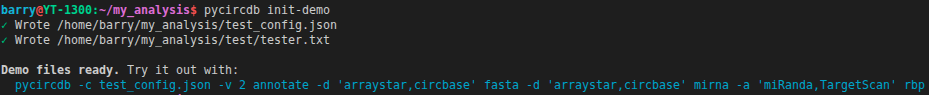
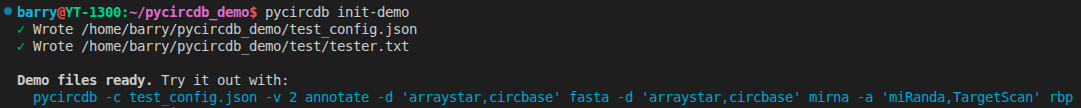
demo regression fix | widen miRNA RBP DL chrom unique()

diff --git a/utils/connect_s3/download_mirna_tables.py b/utils/connect_s3/download_mirna_tables.py
@@ -11,43 +11,38 @@ from utils.md5sum_check import _load_expected_sums, _file_md5sum
 
 console = Console(stderr=True, highlight=False)
 
-def _extract_cscd_chromosomes(lookup_results: Dict[str, Dict[str, pl.DataFrame]]) -> List[str]:
-    """Collect required CSCD chromosome names from lookup hits."""
-    cscd_chrs = set()
+def _extract_required_chromosomes(lookup_results: Dict[str, Dict[str, pl.DataFrame]]) -> List[str]:
+    """Collect required hg38 chromosome names from hits across all lookup tables.
 
-    for _, db_dict in lookup_results.items():
-        cscd_hits = db_dict.get("cscd")
-        if cscd_hits is None or cscd_hits.shape == (0, 0):
-            continue
-        if "hg19" not in cscd_hits.columns or "hg38" not in cscd_hits.columns:
-            continue
+    miRNA hits are matched against the hg38 IDs of every database hit (see
+    broadcast_mirna), so the chromosome tables we download must be derived from
+    all lookup tables, not just CSCD.
+    """
+    chroms = set()
 
-        cscd_hits = cscd_hits.with_columns(
-            pl.col("hg19")
-            .str.splitn(":", 2)
-            .struct.rename_fields(["19chroms", "19rest"])
-            .alias("hg19_fields")
-        ).unnest("hg19_fields")
+    for db_dict in lookup_results.values():
+        for pl_hits in db_dict.values():
+            if pl_hits is None or pl_hits.is_empty():
+                continue
+            if "hg38" not in pl_hits.columns:
+                continue
 
-        cscd_hits = cscd_hits.with_columns(
-            pl.col("hg38")
-            .str.splitn(":", 2)
-            .struct.rename_fields(["38chroms", "38rest"])
-            .alias("hg38_fields")
-        ).unnest("hg38_fields")
+            chrom_series = (
+                pl_hits["hg38"]
+                .str.split("|").list.first()   # drop optional strand suffix
+                .str.split(":").list.first()   # chromosome is the leading field
+            )
+            chroms.update(chrom_series.unique().to_list())
 
-        cscd_chrs.update(cscd_hits["38chroms"].unique().to_list())
-        cscd_chrs.update(cscd_hits["19chroms"].unique().to_list())
-
-    cscd_chrs -= {None}
-    return sorted(cscd_chrs)
+    chroms -= {None}
+    return sorted(chroms)
 
 def fetch_mirna_tables(lookup_results: Dict[str, Dict[str, pl.DataFrame]], tmp_dir_path: str = "tmp", verbose: int = 1) -> List[str]:
     """
     Download (or return cached) miRNA chromosome parquet files based on lookup results.
     """
-    cscd_chrs = _extract_cscd_chromosomes(lookup_results)
-    mirna_files = [f"hg38_mirna_{chrom}.parquet" for chrom in cscd_chrs]
+    required_chrs = _extract_required_chromosomes(lookup_results)
+    mirna_files = [f"hg38_mirna_{chrom}.parquet" for chrom in required_chrs]
 
     from pathlib import Path
     assets_dir = Path(__file__).resolve().parent.parent.parent / "assets"

diff --git a/utils/connect_s3/download_rbp_tables.py b/utils/connect_s3/download_rbp_tables.py
@@ -11,43 +11,38 @@ from utils.md5sum_check import _load_expected_sums, _file_md5sum
 
 console = Console(stderr=True, highlight=False)
 
-def _extract_cscd_chromosomes(lookup_results: Dict[str, Dict[str, pl.DataFrame]]) -> List[str]:
-    """Collect required CSCD chromosome names from lookup hits."""
-    cscd_chrs = set()
+def _extract_required_chromosomes(lookup_results: Dict[str, Dict[str, pl.DataFrame]]) -> List[str]:
+    """Collect required hg38 chromosome names from hits across all lookup tables.
 
-    for _, db_dict in lookup_results.items():
-        cscd_hits = db_dict.get("cscd")
-        if cscd_hits is None or cscd_hits.shape == (0, 0):
-            continue
-        if "hg19" not in cscd_hits.columns or "hg38" not in cscd_hits.columns:
-            continue
+    RBP hits are matched against the hg38 IDs of every database hit (see
+    broadcast_rbp), so the chromosome tables we download must be derived from
+    all lookup tables, not just CSCD.
+    """
+    chroms = set()
 
-        cscd_hits = cscd_hits.with_columns(
-            pl.col("hg19")
-            .str.splitn(":", 2)
-            .struct.rename_fields(["19chroms", "19rest"])
-            .alias("hg19_fields")
-        ).unnest("hg19_fields")
+    for db_dict in lookup_results.values():
+        for pl_hits in db_dict.values():
+            if pl_hits is None or pl_hits.is_empty():
+                continue
+            if "hg38" not in pl_hits.columns:
+                continue
 
-        cscd_hits = cscd_hits.with_columns(
-            pl.col("hg38")
-            .str.splitn(":", 2)
-            .struct.rename_fields(["38chroms", "38rest"])
-            .alias("hg38_fields")
-        ).unnest("hg38_fields")
+            chrom_series = (
+                pl_hits["hg38"]
+                .str.split("|").list.first()   # drop optional strand suffix
+                .str.split(":").list.first()   # chromosome is the leading field
+            )
+            chroms.update(chrom_series.unique().to_list())
 
-        cscd_chrs.update(cscd_hits["38chroms"].unique().to_list())
-        cscd_chrs.update(cscd_hits["19chroms"].unique().to_list())
-
-    cscd_chrs -= {None}
-    return sorted(cscd_chrs)
+    chroms -= {None}
+    return sorted(chroms)
 
 def fetch_rbp_tables(lookup_results: Dict[str, Dict[str, pl.DataFrame]], tmp_dir_path: str = "tmp", verbose: int = 1) -> List[str]:
     """
     Download (or return cached) RBP chromosome parquet files based on lookup results.
     """
-    cscd_chrs = _extract_cscd_chromosomes(lookup_results)
-    rbp_files = [f"hg38_rbp_{chrom}.parquet" for chrom in cscd_chrs]
+    required_chrs = _extract_required_chromosomes(lookup_results)
+    rbp_files = [f"hg38_rbp_{chrom}.parquet" for chrom in required_chrs]
 
     from pathlib import Path
     assets_dir = Path(__file__).resolve().parent.parent.parent / "assets"